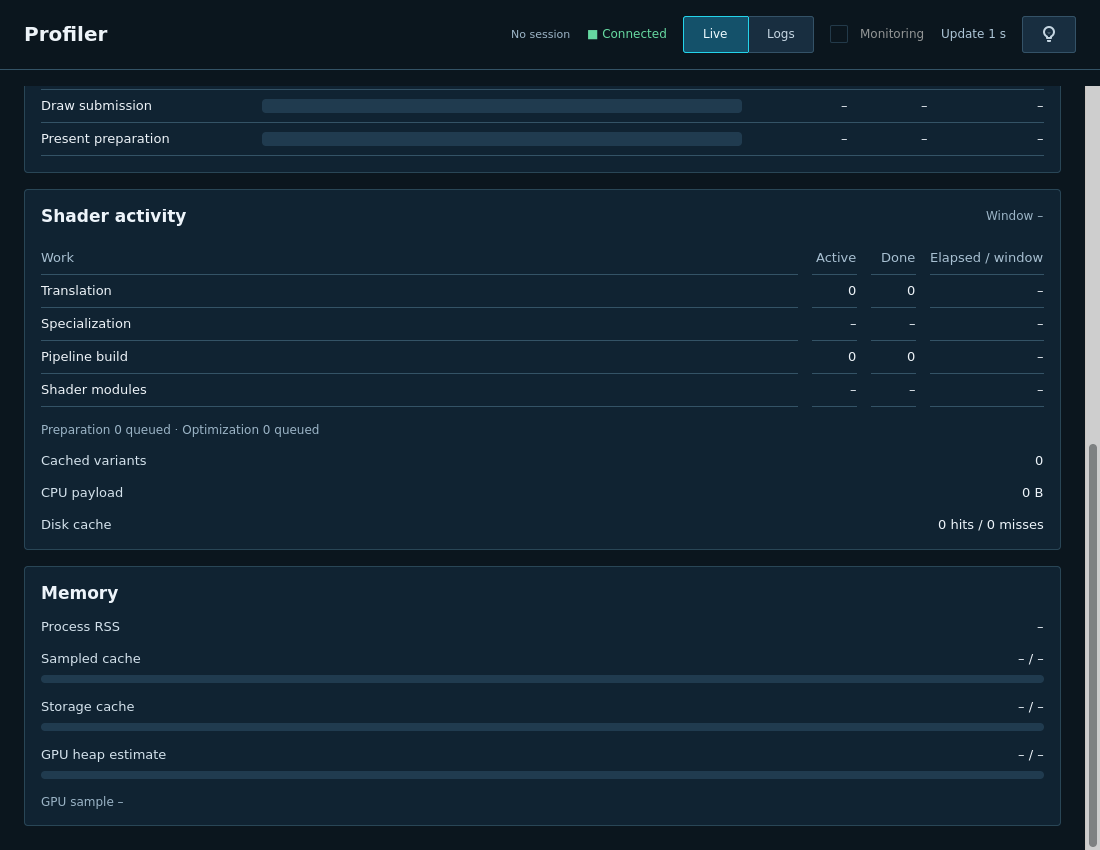
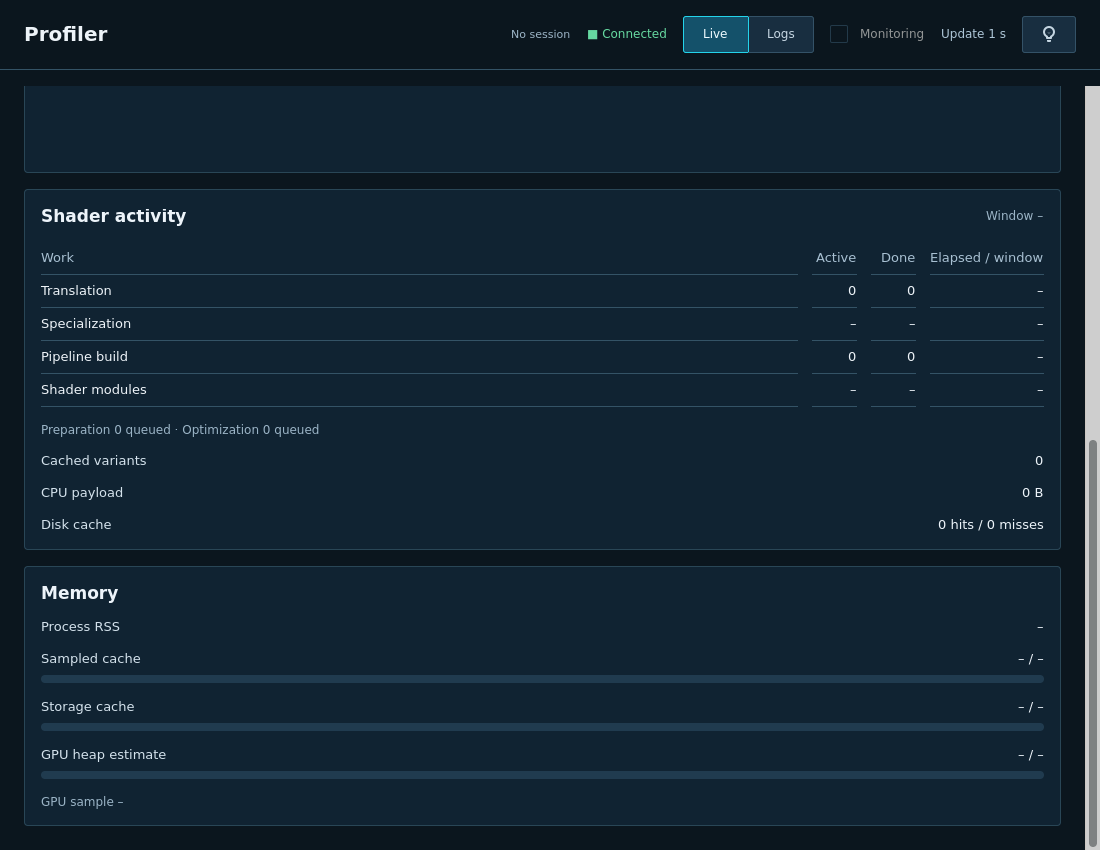
Refine consumer header and show a stable empty state

Changed region(s): [[0.2164, 0.0918, 0.68, 0.1835], [0.0309, 0.1224, 0.1545, 0.1835]]

diff --git a/assets/ui/style.css b/assets/ui/style.css
@@ -85,14 +85,9 @@ button { box-shadow: none; text-shadow: none; }
 .monitor-heading { font-size: 17px; font-weight: 600; color: #edf4fa; }
 .frame-value { font-size: 12px; color: #e1edf6; font-feature-settings: "tnum"; }
 .resource-row > flowboxchild { padding: 0; border: none; background: transparent; }
-.consumer-pending { font-size: 11px; color: #ffc75b; }
-.consumer-cell { font-size: 13px; }
-.consumer-row { padding: 8px 0; border-bottom: 1px solid #345366; }
-.consumer-row.consumer-column { padding-top: 0; }
+.consumer-empty { font-size: 13px; color: #a8c0d2; }
 .consumer-column { color: #a8c0d2; }
 .numeric, .resource-value { font-feature-settings: "tnum"; }
-.consumer-bar trough { min-height: 14px; border: none; border-radius: 4px; background: #203b4f; }
-.consumer-bar progress { min-width: 0; margin: 0; padding: 0; min-height: 14px; border: none; border-radius: 4px; background: #24d4eb; }
 .work-cell { font-size: 13px; padding: 8px 0; border-bottom: 1px solid #345366; }
 .resource-label { font-size: 13px; color: #d4e2ec; }
 .resource-value { font-size: 13px; color: #edf4fa; }

diff --git a/src/ui/profiler.cpp b/src/ui/profiler.cpp
@@ -264,53 +264,22 @@ ProfilerView::ProfilerView(std::function<void(bool)> request_monitoring)
     gtk_widget_set_size_request(consumers, 850, -1);
     gtk_widget_set_hexpand(consumers, true);
     gtk_widget_set_valign(consumers, GTK_ALIGN_START);
-    auto* consumer_header = gtk_box_new(GTK_ORIENTATION_HORIZONTAL, 16);
+    auto* consumer_header = gtk_center_box_new();
     auto* consumer_title = label("Top frame consumers", "monitor-heading");
-    gtk_widget_set_hexpand(consumer_title, true);
-    gtk_box_append(GTK_BOX(consumer_header), consumer_title);
+    gtk_center_box_set_start_widget(GTK_CENTER_BOX(consumer_header), consumer_title);
     const auto consumer_modes = ui::segmented_control("Frame", "Driver CPU", "GPU");
     gtk_widget_set_sensitive(consumer_modes.second, false);
     gtk_widget_set_sensitive(consumer_modes.third, false);
     gtk_widget_set_tooltip_text(consumer_modes.root, "Per-frame CPU/GPU attribution is not available yet");
-    gtk_box_append(GTK_BOX(consumer_header), consumer_modes.root);
+    gtk_center_box_set_end_widget(GTK_CENTER_BOX(consumer_header), consumer_modes.root);
     consumer_frame_ = label("Frame –", "frame-value");
     gtk_label_set_ellipsize(GTK_LABEL(consumer_frame_), PANGO_ELLIPSIZE_END);
-    gtk_box_append(GTK_BOX(consumer_header), consumer_frame_);
-    auto* pending = label("Measurements pending", "consumer-pending");
-    gtk_label_set_ellipsize(GTK_LABEL(pending), PANGO_ELLIPSIZE_END);
-    gtk_label_set_xalign(GTK_LABEL(pending), 1);
-    gtk_widget_set_tooltip_text(pending, "Per-frame phase attribution is not supplied by this runtime. Placeholder rows do not represent measured rankings.");
-    gtk_box_append(GTK_BOX(consumer_header), pending);
+    gtk_center_box_set_center_widget(GTK_CENTER_BOX(consumer_header), consumer_frame_);
     gtk_box_append(GTK_BOX(consumers), consumer_header);
-    auto* table = gtk_box_new(GTK_ORIENTATION_VERTICAL, 0);
-    const char* headings[] = {"Phase", "", "Elapsed", "Calls", "Share of flip"};
-    const char* phases[] = {"Packet decode", "Texture upload", "Pipeline preparation", "Descriptor update", "Command recording",
-        "Buffer synchronization", "Render-target setup", "Shader specialization", "Draw submission", "Present preparation"};
-    const int widths[] = {205, 140, 90, 64, 100};
-    for (unsigned row = 0; row <= 10; ++row) {
-        auto* line = gtk_box_new(GTK_ORIENTATION_HORIZONTAL, 16);
-        gtk_widget_add_css_class(line, "consumer-row");
-        if (!row) gtk_widget_add_css_class(line, "consumer-column");
-        for (unsigned col = 0; col < 5; ++col) {
-            GtkWidget* cell;
-            if (row && col == 1) {
-                cell = gtk_progress_bar_new();
-                gtk_widget_add_css_class(cell, "consumer-bar");
-            } else {
-                cell = label(row ? (col == 0 ? phases[row - 1] : "–") : headings[col], "consumer-cell");
-                if (col > 1) {
-                    gtk_label_set_xalign(GTK_LABEL(cell), 1);
-                    gtk_widget_add_css_class(cell, "numeric");
-                }
-            }
-            gtk_widget_set_size_request(cell, widths[col], -1);
-            gtk_widget_set_hexpand(cell, col == 1);
-            gtk_widget_set_valign(cell, GTK_ALIGN_CENTER);
-            gtk_box_append(GTK_BOX(line), cell);
-        }
-        gtk_box_append(GTK_BOX(table), line);
-    }
-    gtk_box_append(GTK_BOX(consumers), table);
+    auto* empty = label("No data", "consumer-empty");
+    gtk_label_set_xalign(GTK_LABEL(empty), 0.5f);
+    gtk_widget_set_size_request(empty, -1, 340);
+    gtk_box_append(GTK_BOX(consumers), empty);
     gtk_flow_box_insert(GTK_FLOW_BOX(lower), consumers, -1);
 
     auto* side = gtk_box_new(GTK_ORIENTATION_VERTICAL, 16);

diff --git a/docs/profiler-design-review.md b/docs/profiler-design-review.md
@@ -37,11 +37,11 @@ Cards use 16 px internal padding and 16 px section/column gaps. Shader work and 
 
 ## Verification
 
-The chart header uses a native title/unit column with 8 px plot separation. Bottom axis labels end 6 px above the drawing-area edge, followed by the shared 16 px card padding. The consumer header shares the segmented control for Frame/Driver CPU/GPU; its frame number is plain text. Consumer rows use fixed column widths, 16 px gaps and full-row dividers; the card keeps natural height rather than stretching below the last row. Unavailable CPU/GPU modes stay disabled.
+The chart header uses a native title/unit column with 8 px plot separation. Bottom axis labels end 6 px above the drawing-area edge, followed by the shared 16 px card padding. The consumer header centers its plain frame number independently of the left title and right-aligned Frame/Driver CPU/GPU segmented control. Unavailable CPU/GPU modes stay disabled. Its empty body shows “No data” with a 340 px minimum height; placeholder rows and the pending label are removed.
 
 Live/Logs reuses the chart segmented control. The shared divider is drawn once and follows the selected side; screenshots verify complete outlines for both left and right selection. Native mouse clicks verify switching to Logs and returning to Live while preserving chart mode. The chart drawing area is 174 px high and the FPS axis is fixed at 0–75 with labels at 13, 30 and 60 and a native unit label beneath the title; interval mode still scales automatically.
 
-The revised controls were inspected at 1500 × 1250 and 1100 × 850. Both mode captions remain readable with a ten-digit frame ID and a three-digit worst interval. Native toggling confirms mutual exclusion and redraw in both modes. Follow live and Monitoring were checked on and off; the indicator allocation is 16 × 16 without inherited theme padding. Disabled controls remain distinct from enabled options. Narrow layouts stack the resource column; scrolling exposes the complete shader/memory cards without horizontal overflow. The top strip contains only the four metrics, with labels beside their values and smaller baseline-aligned units. It is about 20 px shorter than the stacked layout. Visible millisecond values round to integers, with full precision in tooltips; sample counts, coverage, observation-window state and receive age live in the Info popup. There is no footer. A stale/missing-frame badge beside the chart unit was checked at narrow width. All dashboard card containers share one factory and CSS class, 16 px padding/gaps and 4 px corners. Theme-independent button foregrounds are explicit.
+The revised controls were inspected at 1500 × 1250 and 1100 × 850. Native allocation checks confirm the consumer counter is centered within 0.5 px, the segmented control reaches the header’s right edge and the empty body retains its 340 px minimum height at both widths. Both mode captions remain readable with a ten-digit frame ID and a three-digit worst interval. Native toggling confirms mutual exclusion and redraw in both modes. Follow live and Monitoring were checked on and off; the indicator allocation is 16 × 16 without inherited theme padding. Disabled controls remain distinct from enabled options. Narrow layouts stack the resource column; scrolling exposes the complete shader/memory cards without horizontal overflow. The top strip contains only the four metrics, with labels beside their values and smaller baseline-aligned units. It is about 20 px shorter than the stacked layout. Visible millisecond values round to integers, with full precision in tooltips; sample counts, coverage, observation-window state and receive age live in the Info popup. There is no footer. A stale/missing-frame badge beside the chart unit was checked at narrow width. All dashboard card containers share one factory and CSS class, 16 px padding/gaps and 4 px corners. Theme-independent button foregrounds are explicit.
 
 - Native shell check: connection status remains beside Profiler on both pages; search and refresh are visible in Library and hidden in Profiler. Branding, Settings and window controls keep the shared shell styling.
 - Native build succeeds (`cmake --build build -j2`); the previous workspace implementation also passed a full clean build.

diff --git a/docs/profiling.md b/docs/profiling.md
@@ -13,7 +13,7 @@ The Live view uses the [UDP debug bridge and MCP server](debug-bridge.md). Manag
 
 The same normalized model is available through `get_monitoring_snapshot`. Game-side monotonic timestamps determine intervals and source windows; UDP receive age determines freshness. The first completion after activation or output reset has no interval. Per-stream completion IDs identify missing samples separately from general packet gaps and producer drops. The dashboard does not acknowledge telemetry, parse timing files or enable existing timing/draw/GPU log settings. CPU hotspots, GPU execution tables, saved snapshots and screenshots remain later increments.
 
-The workspace follows [profiler-live-v6](../assets/design/profiler-live-v6.png): a metric strip, full-width frame-pacing chart, ten-row frame-consumer table and separate **Shader activity** and **Memory** panels. The Profiler shares the Library background, with darker navy cards, 4 px corners and consistent spacing. The compact overview places each label beside its right-aligned value, with smaller FPS/ms units. Visible millisecond values are rounded to integers; tooltips retain the precise values. Live content scrolls vertically; resource rows keep their natural height, and memory budgets use full-width bars beneath each label/value pair. Numbers use tabular digits and align to the right. The consumer header uses the shared Frame / Driver CPU / GPU control, with a separate plain frame number. Unavailable modes are disabled. Fixed column widths, consistent 16 px gaps and full-row dividers align the table; the card keeps its natural height. Detailed frame attribution is not supplied yet: consumer rows show empty bars and `–`, with a pending state; they are not measured rankings. Capture and input-script UI remain deferred.
+The workspace follows [profiler-live-v6](../assets/design/profiler-live-v6.png): a metric strip, full-width frame-pacing chart, frame-consumer card and separate **Shader activity** and **Memory** panels. The Profiler shares the Library background, with darker navy cards, 4 px corners and consistent spacing. The compact overview places each label beside its right-aligned value, with smaller FPS/ms units. Visible millisecond values are rounded to integers; tooltips retain the precise values. Live content scrolls vertically; resource rows keep their natural height, and memory budgets use full-width bars beneath each label/value pair. Numbers use tabular digits and align to the right. The consumer header centers the plain frame number independently of the title and right-aligned shared Frame / Driver CPU / GPU control. Unavailable modes are disabled. Detailed frame attribution is not supplied yet: the body shows “No data” with a 340 px minimum height, without placeholder rankings or a pending label. Capture and input-script UI remain deferred.
 
 Shader activity shows translation, specialization, pipeline build and shader-module creation. **Active** is the current gauge; **Done** is cumulative completed attempts since process start and resets with a new game process. **Elapsed / window** shows completed/failed attempt wall time in the indicated observed resource window. Nested timings overlap and do not measure GPU execution or additive CPU utilization. Queues, cached variants, retained CPU payload and disk-cache counters appear beneath the table. Tooltips expose scopes, failures, lifetime timing and other instrumented work without permanent explanatory text.
 

diff --git a/docs/design.md b/docs/design.md
@@ -56,7 +56,7 @@ Account for long names, missing logos, very bright images and missing artwork. C
 
 The current Profiler has **Live** and **Logs** views. The game runs in its external window. A compact session strip identifies process, bridge and monitoring state.
 
-The overview shows estimated FPS and mean/P95/worst flip intervals. A full-width pacing chart defaults to FPS, with a segmented FPS/Flip interval control showing both options and frame details/selection overlaid in its header. Reusable GTK factories provide labels, a shared card component, metric fields, segmented controls and header overlays. Below it, a ten-row consumer table uses shared Frame/Driver CPU/GPU controls, a separate frame number, fixed numeric columns and full-row dividers. It reserves per-frame timing, call counts and share bars. Diagnostics live in the Info popup; a compact stale/missing-frame indicator stays beside the chart unit. Shader activity and memory occupy the right column. Missing consumer data uses `–` and empty bars; source age and unavailable/stale states remain explicit. The dashboard contains no automation pane.
+The overview shows estimated FPS and mean/P95/worst flip intervals. A full-width pacing chart defaults to FPS, with a segmented FPS/Flip interval control showing both options and frame details/selection overlaid in its header. Reusable GTK factories provide labels, a shared card component, metric fields, segmented controls and header overlays. Below it, the consumer card centers the frame number in its header and places the shared Frame/Driver CPU/GPU control at the right edge. Until attribution is available, its body shows “No data” with a 340 px minimum height. Diagnostics live in the Info popup; a compact stale/missing-frame indicator stays beside the chart unit. Shader activity and memory occupy the right column. Source age and unavailable/stale states remain explicit. The dashboard contains no automation pane.
 
 See [Profiling](profiling.md) for implemented measurement semantics and [native visual review](profiler-design-review.md) for screenshots against the v6 reference. [Profiler workspace and game input scripts](profiler-workspace.md) describes deferred capture and script requirements.
 
